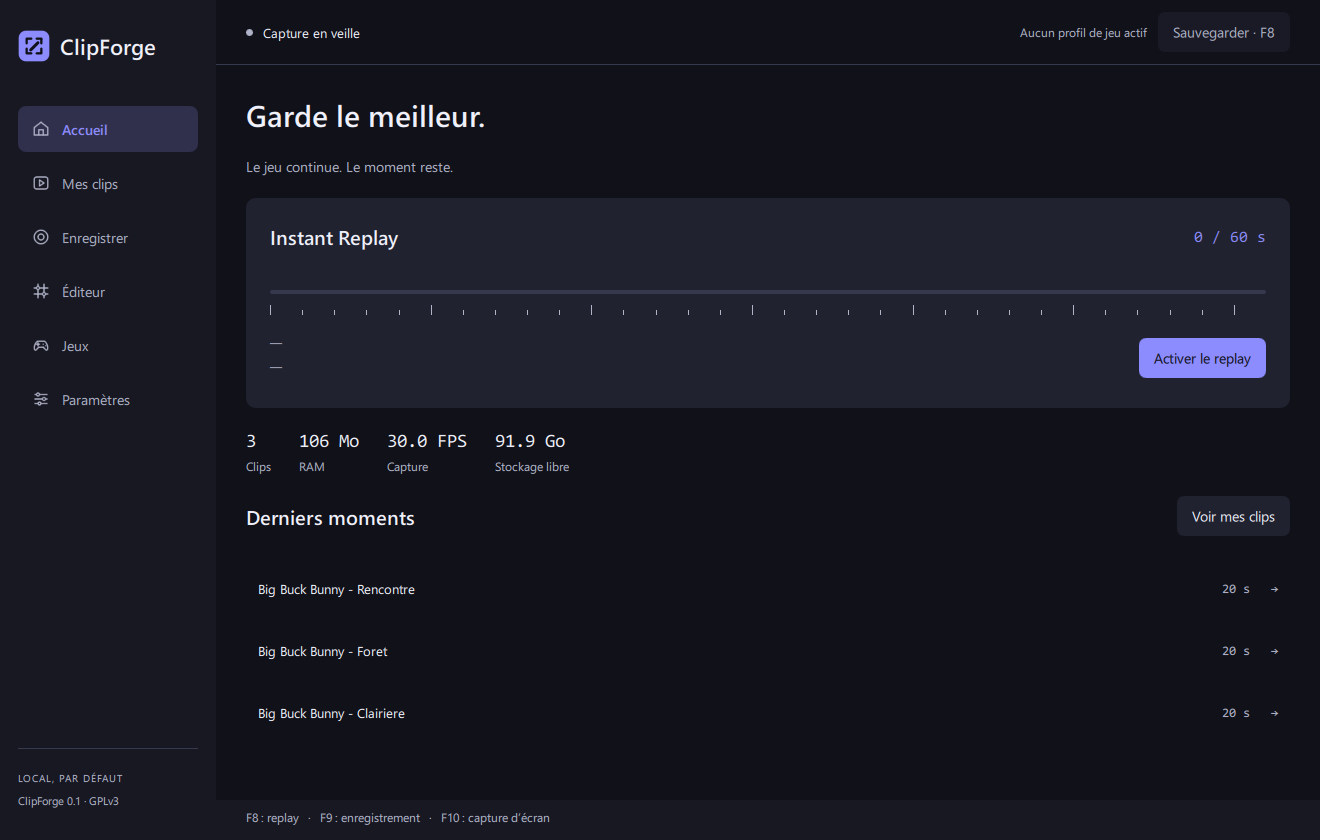
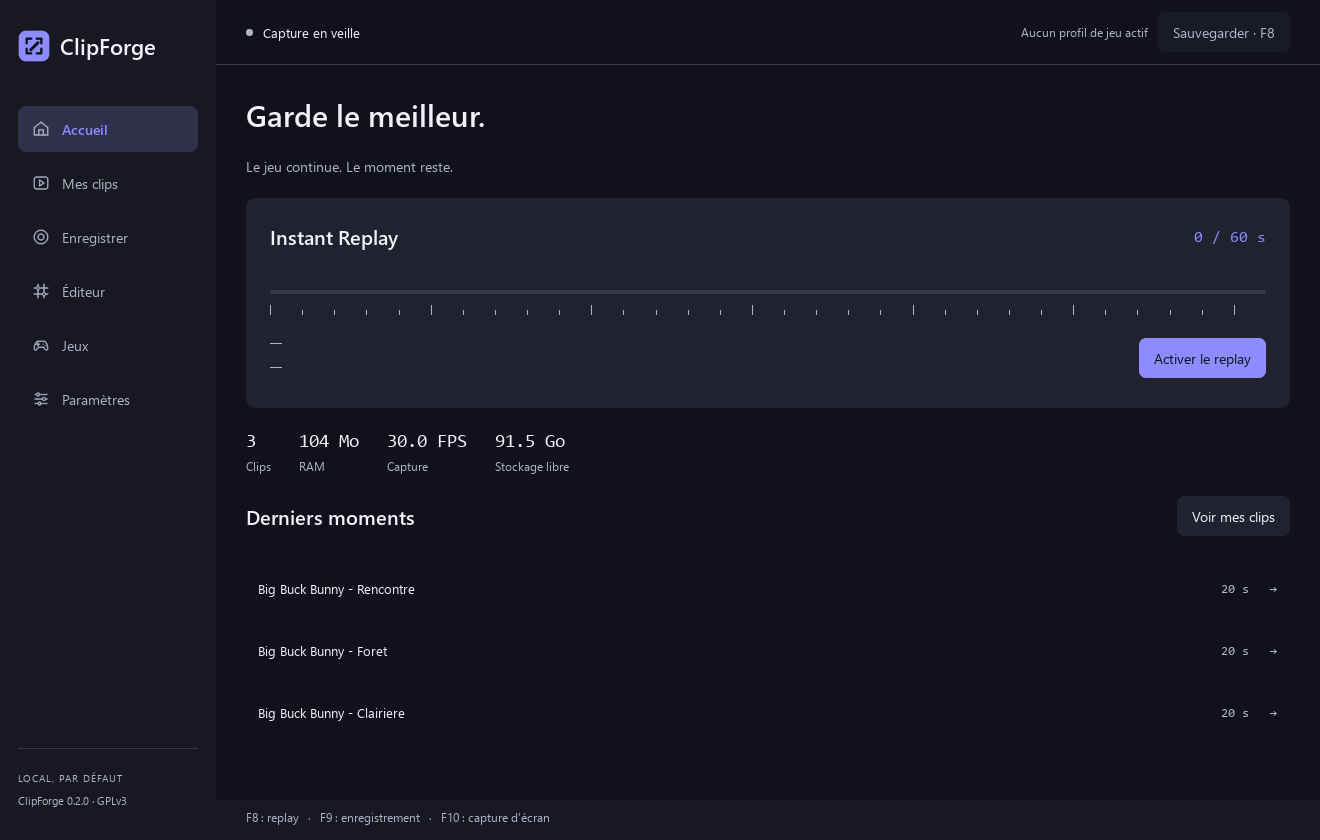
release: prepare ClipForge 0.2.0 and refresh website

diff --git a/site/src/components/sections.tsx b/site/src/components/sections.tsx
@@ -202,7 +202,7 @@ export function LimitsSection() {
         encore là.
       </SectionTitle>
       <p className="text-muted mt-6 max-w-xl text-lg">
-        ClipForge en est à la version 0.1. Voilà, sans arrondir, ce qui est vérifié et ce qui ne
+        ClipForge en est à la version 0.2. Voilà, sans arrondir, ce qui est vérifié et ce qui ne
         l’est pas.
       </p>
       <div className="mt-14 grid gap-12 lg:grid-cols-[5fr_7fr] lg:gap-20">
@@ -229,7 +229,7 @@ export function LimitsSection() {
             {[
               "NVENC, QSV, HEVC et AV1 sur d’autres cartes graphiques",
               "Comportement avec de vrais jeux et leurs anti-triche",
-              "Pas d’overlay en jeu ; F10 capture le bureau, pas l’image du jeu",
+              "Overlay de notifications : plein écran exclusif non vérifié ; F10 capture le bureau",
               "Exports toujours réencodés, sans texte, sous-titres ni transitions",
               "Replay uniquement en RAM, pas sur disque",
               "Windows 10 et machine vierge : vérifications de publication à faire",

diff --git a/site/src/components/hero.tsx b/site/src/components/hero.tsx
@@ -35,7 +35,7 @@ export function Hero() {
           </Button>
         </div>
         <p className="text-muted mt-4 text-sm">
-          Version 0.1 · Windows x64 · aucune connexion requise
+          Version 0.2 · Windows x64 · aucune connexion requise pour capturer
         </p>
       </div>
       <div className="mx-auto mt-16 w-[min(72rem,100%-2rem)] sm:w-[min(72rem,100%-3rem)]">

diff --git a/src/app/CaptureActions.cpp b/src/app/CaptureActions.cpp
@@ -154,6 +154,8 @@ void Controller::runSelfTest() {
     start();
     QTimer::singleShot(duration - 14000, this, &Controller::saveReplay);
     QTimer::singleShot(duration - 13800, this, &Controller::saveReplay);
+    // Exercise the rapid-keypress guard, then save again after its cooldown.
+    QTimer::singleShot(duration - 12000, this, &Controller::saveReplay);
     QTimer::singleShot(duration - 10000, this, &Controller::toggleRecording);
     QTimer::singleShot(duration - 5000, this, &Controller::toggleRecording);
     QTimer::singleShot(duration - 3000, this, &Controller::stop);

diff --git a/scripts/validate_media.py b/scripts/validate_media.py
@@ -17,6 +17,7 @@ args = parser.parse_args()
 report = {"files": [], "checks": []}
 files = sorted((args.folder / "clips").glob("*"))
 assert len(files) >= 3, f"Expected two replays and one recording, got {len(files)}"
+assert sum(p.name.startswith("Replay") for p in files) == 2, "Expected two replays after three requests (one rapid repeat suppressed)"
 assert len({p.name for p in files}) == len(files)
 for path in files:
     data = json.loads(subprocess.check_output([

diff --git a/docs/FEATURES.md b/docs/FEATURES.md
@@ -1,15 +1,15 @@
-# Scope of 0.1
+# Scope of 0.2
 
 | Area | Operational implementation | Limits / remaining work |
 |---|---|---|
-| Replay | libobs compressed RAM buffer, configurable duration/memory, serialized overlapping saves, unique filenames | Saves queued during a mux snapshot later than the original keypress; no disk-backed replay |
+| Replay | libobs compressed RAM buffer, configurable duration/memory, unique filenames, one save at a time with a 1.5-second cooldown | Repeated requests during a save or cooldown are ignored; no disk-backed replay |
 | Capture | DXGI display, WGC window, standard OBS game source, manual MKV recording, MP4 replay | Actual game/anti-cheat checks, device-loss recovery, seamless source-type fallback remain |
 | Encoding | AMF/NVENC/QSV discovery and selection, H.264 x264 fallback, hardware HEVC/AV1 selection | Only AMF H.264 and x264 were exercised on this machine; other codecs/GPUs untested |
 | Audio capture | WASAPI system/process source, selected microphone, per-source gain/mute through zero volume | One mixed AAC track; no separate tracks/meters/live device changes. Process isolation and microphone enabled require additional runtime tests |
 | Library | SQLite paging, thumbnails, search/sort, favorites/tags/rename/trash, import, missing-file handling | External changes need Refresh; no relocation assistant. Remote/very large SQL workloads are not asynchronous yet |
 | Editor | Native video, decoded audio output, scrub/range trim, multiple passages from one source, removal, speed, gain, undo/redo, saved projects, H.264/HEVC MP4 exports | All exports reencode; no lossless keyframe copy, multi-file assembly, vertical crop, text, subtitles or transitions |
-| Background | Tray menu, global configurable F1–F24 keys with conflict errors, notifications, optional close-to-tray | Modifier chords and overlay remain; F10 captures primary desktop, not the game framebuffer |
+| Background | Tray menu, configurable F1–F24 keys with conflict errors, replay/recording/screenshot cooldowns, optional click-through notification overlay, close-to-tray | Exclusive-fullscreen overlay visibility and actual games remain unverified; F10 captures primary desktop, not the game framebuffer |
 | Games | Enumerate windows/executables, opt-in profiles, auto-start for known foreground profiles, stop after their windows disappear | Profile/game behavior has no real-game runtime verification yet. Unknown processes never automatically become games |
-| Settings | Validated atomic JSON, folder selection, config import/export, start minimized, installer startup shortcut | No auto clip deletion, storage cleanup rules, disk quota, temporary-buffer folder or auto-clipping plugins |
+| Settings | Validated atomic JSON, config import/export, start minimized, shared Windows startup toggle, optional GitHub update checks/downloads with installation at quit, single-instance window activation | Update checks require internet; portable builds open the release page. No auto clip deletion, disk quota, temporary-buffer folder or auto-clipping plugins |
 
 Playback audio uses FFmpeg PCM decoding in a background subprocess and an explicitly described QAudioSink format to support virtual-surround headsets. It prefers stereo float PCM when the output supports it, reducing needless multichannel decode work. Pause and seek recreate the audio output; rate changes are coalesced for 120 ms and restart only the decoder while reusing that output. Its pending PCM queue is bounded to one second. Video uses Qt Multimedia. File export A/V timestamps are independently checked; preview synchronization has not been assessed by human listening.

diff --git a/docs/VALIDATION.md b/docs/VALIDATION.md
@@ -52,3 +52,15 @@ The website passed TypeScript, ESLint and the production static build. Browser c
 Fixed the Qt resource filename used by QIcon (`:/assets/ClipForge.ico`) and explicitly assigned it to the QQuickWindow. The process and installed shortcuts share the ClipForge.Desktop AppUserModelID. Start menu, desktop and startup shortcuts use the installed ClipForge.ico file. CMake now tracks the ICO file as a dependency of the Windows resource so branding changes rebuild the executable's icon.
 
 Verified the installed executable contains seven native icon sizes. Both ExtractAssociatedIcon (Windows shell) and WM_GETICON on the actual running installed QQuickWindow return the website logo. Captured evidence remains local in artifacts/live-window-icon.png and artifacts/fixed-shell-icon.png. The installed Start menu shortcut was updated and Windows received a shell-change notification.
+
+## Release 0.2.0 checks, 19 October 2026
+
+MSVC release build and version resources: 0.2.0. Core QtTest: 7 passed, 0 failed. Media QtTest: 7 passed, 0 failed, including playback frames, audio processing, seeking/rate changes, hotkeys and an actual multi-segment export.
+
+A 32-second isolated WGC fixture run produced two H.264/AAC MP4 replays and one MKV recording. Three save requests include a rapid 200 ms repeat: that repeat is suppressed, while a later request after the 1.5-second cooldown succeeds. Full decoding, timestamps, dimensions and FPS passed; rendering lag: 0 frames in this run. This is file/pipeline validation, not proof of real-game capture fidelity or exclusive-fullscreen overlay behavior.
+
+The six-page QML smoke test passed with edited settings surviving refresh. The native editor check passed with an advancing playback position and a valid QVideoSink frame. Five public website screenshots were refreshed from the running 0.2.0 application, using the same credited imported sample video and isolated test data. The games-page capture stays private.
+
+The capture harness now waits for the hotkey cooldown before its second accepted save; its validator requires exactly two replays. The PowerShell media-report argument was corrected to pass one output filename/format argument to QtTest. No changes were made to the installed user's application, settings or clips for these checks. Runtime update installation, startup-registry toggling, real games, exclusive fullscreen, a clean VM and Windows 10 were not exercised for this release.
+
+Release artifacts built: installer 185114161 bytes, portable ZIP 252874214 bytes. Installer version resources are 0.2.0. The portable ZIP passed 7-Zip integrity checking and excludes development executables and the obsolete ClipForge-Fixed.exe. The regenerated installer was not installed over the user's active app during publication.
